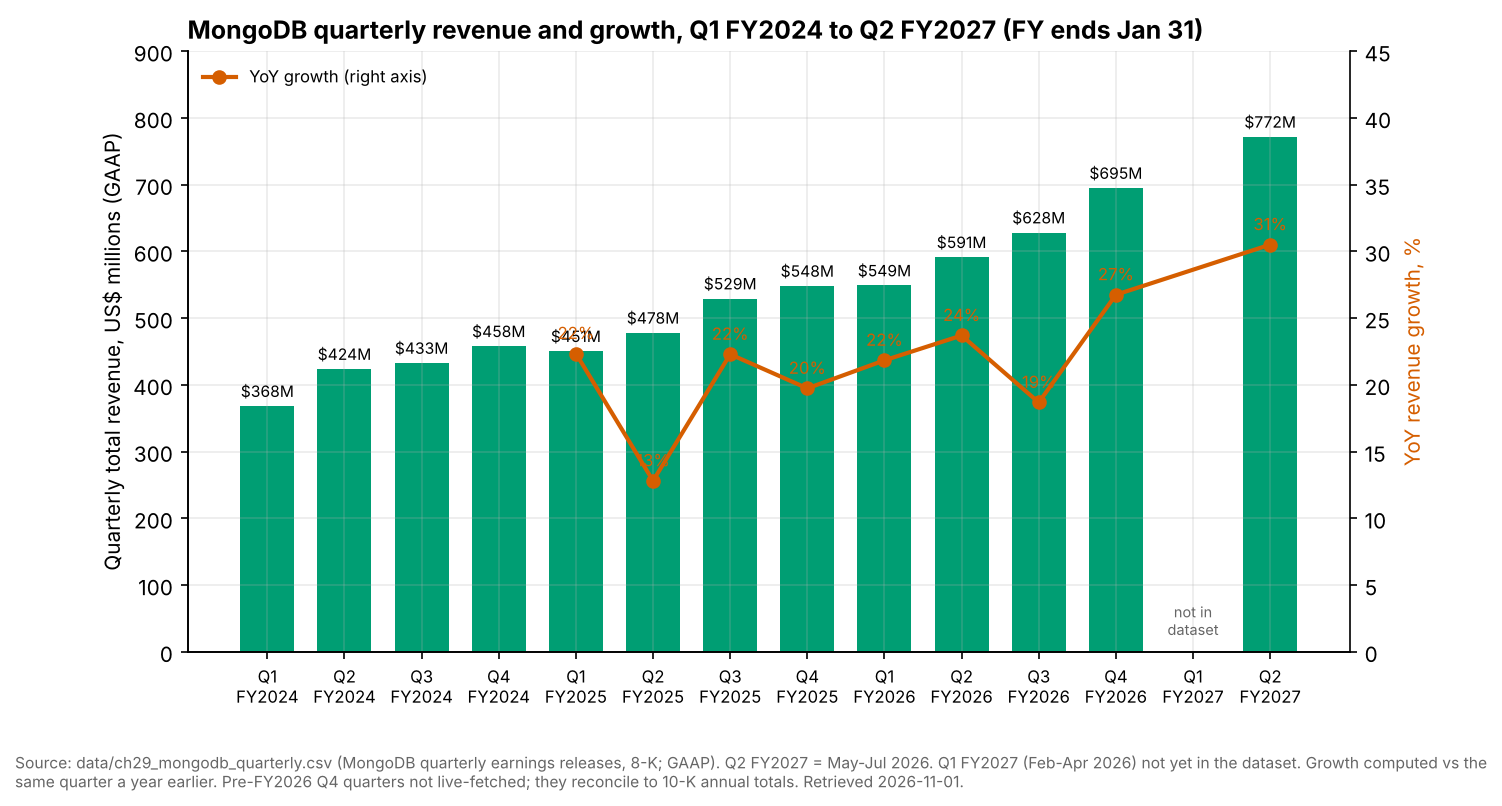
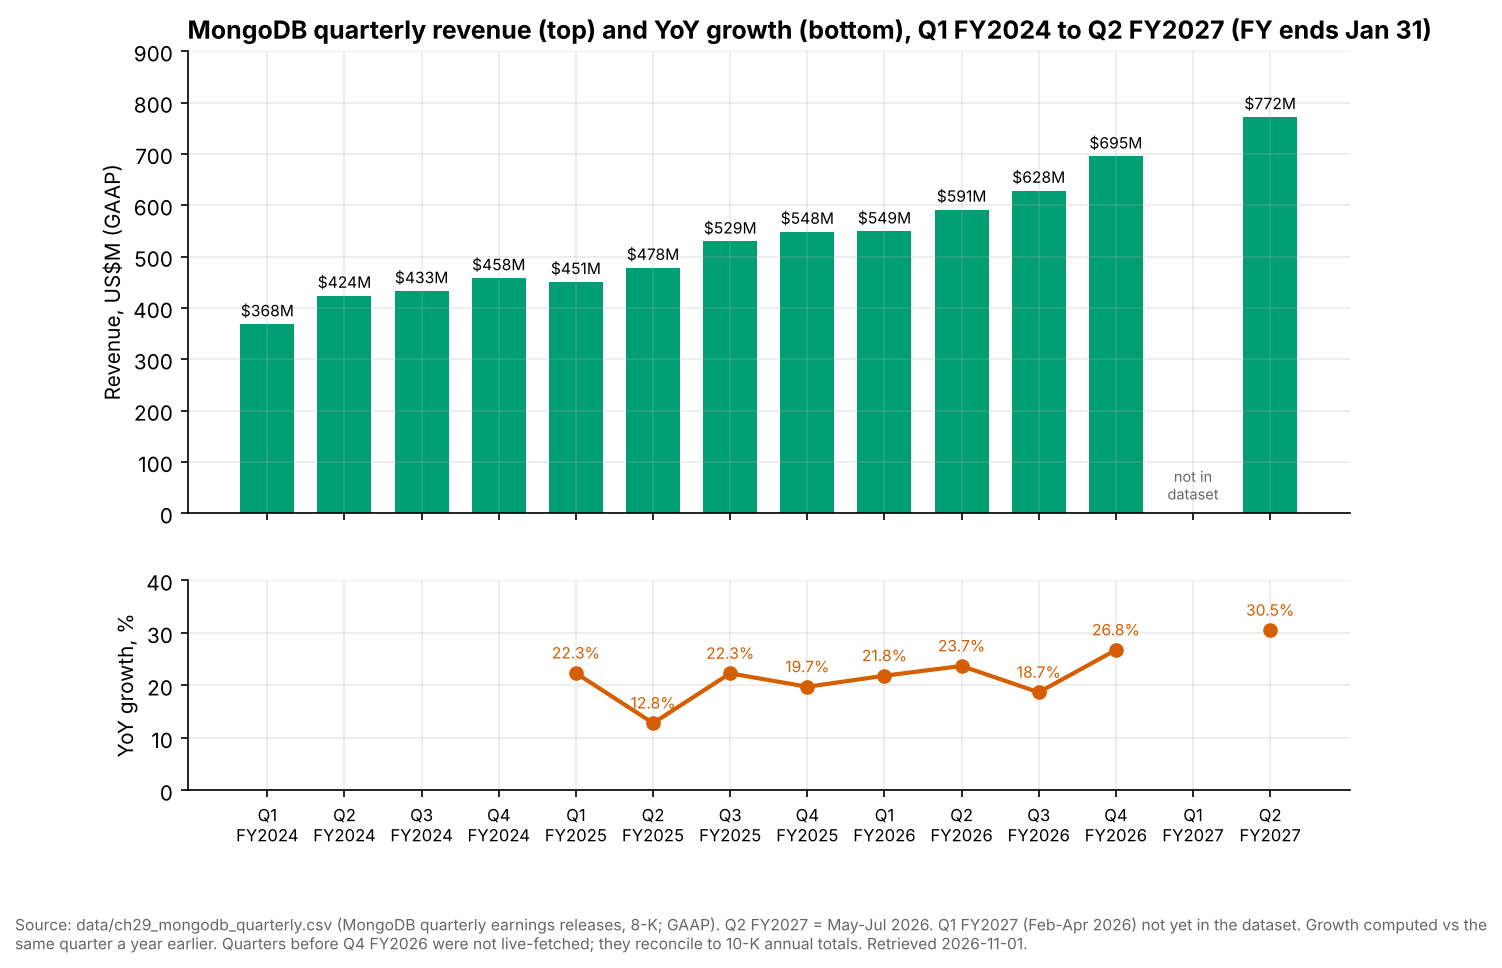
docs(ch23): real-time analytics and HTAP
Claude-Session: https://claude.ai/code/session_015j6Et44vVa5dK62bXN3KKX

diff --git a/scripts/charts/ch29_mongodb_atlas.py b/scripts/charts/ch29_mongodb_atlas.py
@@ -11,22 +11,18 @@ def make():
     d["v"] = num(d["value"])
     vals = dict(zip(d["fiscal_period"], d["v"]))
     xs = list(range(len(ORDER)))
-    fig, ax = plt.subplots(figsize=(10, 5.2))
+    fig, (ax, ax2) = plt.subplots(2, 1, figsize=(10, 6.4), sharex=True, gridspec_kw={"height_ratios": [2.2, 1]})
     heights = [vals.get(p, 0) for p in ORDER]
-    colors = [PALETTE["green"] if p in vals else PALETTE["grey"] for p in ORDER]
-    ax.bar(xs, heights, color=colors, width=0.7)
+    ax.bar(xs, heights, color=PALETTE["green"], width=0.7)
     for x, p in zip(xs, ORDER):
         if p in vals:
             ax.text(x, vals[p] + 8, f"${vals[p]:.0f}M", ha="center", va="bottom", fontsize=7.5)
         else:
             ax.text(x, 20, "not in\ndataset", ha="center", va="bottom", fontsize=7, color=PALETTE["grey"])
-    ax.set_xticks(xs)
-    ax.set_xticklabels([p.replace(" ", "\n") for p in ORDER], fontsize=8)
-    ax.set_ylabel("Quarterly total revenue, US$ millions (GAAP)")
+    ax.set_ylabel("Revenue, US$M (GAAP)")
     ax.set_ylim(0, 900)
 
-    # YoY growth: same quarter, prior fiscal year
-    ax2 = ax.twinx()
+    # YoY growth: same quarter, prior fiscal year; break the line where a quarter is missing
     gx, gy = [], []
     for x, p in zip(xs, ORDER):
         q, fy = p.split(" ")
@@ -34,18 +30,21 @@ def make():
         if p in vals and prior in vals:
             gx.append(x)
             gy.append((vals[p] / vals[prior] - 1) * 100)
-    ax2.plot(gx, gy, color=PALETTE["vermillion"], marker="o", linewidth=2, label="YoY growth (right axis)")
+        else:
+            gx.append(x)
+            gy.append(float("nan"))
+    ax2.plot(gx, gy, color=PALETTE["vermillion"], marker="o", linewidth=2)
     for x, y in zip(gx, gy):
-        ax2.annotate(f"{y:.0f}%", (x, y), xytext=(0, 7), textcoords="offset points", ha="center", fontsize=8,
-                     color=PALETTE["vermillion"])
-    ax2.set_ylim(0, 45)
-    ax2.set_ylabel("YoY revenue growth, %", color=PALETTE["vermillion"])
-    ax2.spines["right"].set_visible(True)
-    ax2.grid(False)
-    ax2.legend(loc="upper left", frameon=False, fontsize=8)
-    ax.set_title("MongoDB quarterly revenue and growth, Q1 FY2024 to Q2 FY2027 (FY ends Jan 31)")
+        if y == y:
+            ax2.annotate(f"{y:.1f}%", (x, y), xytext=(0, 7), textcoords="offset points", ha="center", fontsize=7.5,
+                         color=PALETTE["vermillion"])
+    ax2.set_ylim(0, 40)
+    ax2.set_ylabel("YoY growth, %")
+    ax2.set_xticks(xs)
+    ax2.set_xticklabels([p.replace(" ", "\n") for p in ORDER], fontsize=8)
+    ax.set_title("MongoDB quarterly revenue (top) and YoY growth (bottom), Q1 FY2024 to Q2 FY2027 (FY ends Jan 31)")
     source_note(ax, "Source: data/ch29_mongodb_quarterly.csv (MongoDB quarterly earnings releases, 8-K; GAAP). "
                     "Q2 FY2027 = May-Jul 2026. Q1 FY2027 (Feb-Apr 2026) not yet in the dataset. Growth computed vs the "
-                    "same quarter a year earlier. Pre-FY2026 Q4 quarters not live-fetched; they reconcile to 10-K annual totals. "
+                    "same quarter a year earlier. Quarters before Q4 FY2026 were not live-fetched; they reconcile to 10-K annual totals. "
                     "Retrieved 2026-11-01.")
     return [save(fig, "ch29_mongodb_atlas")]

diff --git a/docs/03-ai-data-stack/ch20-training-data-supply-chain.md b/docs/03-ai-data-stack/ch20-training-data-supply-chain.md
@@ -1,12 +1,12 @@
 # 20. The Training-Data Supply Chain
-> **Depth:** L2 · **Reading time:** ~13 min · **Last verified:** 2026-11-01 · **Prerequisites:** [Ch 16 — The AI data lifecycle](ch16-ai-data-lifecycle.md)
+> **Depth:** L2 · **Reading time:** ~16 min · **Last verified:** 2026-11-01 · **Prerequisites:** [Ch 16 — The AI data lifecycle](ch16-ai-data-lifecycle.md)
 
 ## TL;DR
 
 - Frontier models are built from four input channels: crawled web data, licensed content, human-produced data (labels, preference rankings, expert demonstrations) and synthetic data generated by other models. Each channel has its own cost curve, legal risk and supplier structure. Together they form a supply chain, and curation (deduplication, quality filtering, PII removal, mixing) is the refinery in the middle.
 - Human data has moved up-market fast. Cheap crowd labeling (Appen's model) is shrinking. Expert networks that rent out PhDs, doctors and senior engineers by the hour are growing quickly. Mercor's priced valuation went to $10B (October 2025, company-confirmed),[^mercor-c] and Snorkel AI's to $3.5B (September 2026, company-stated).[^snorkel-e] Bootstrapped Surge AI reportedly passed $1B of 2024 revenue (press-reported).[^surge-reuters]
 - The buyer side is a handful of frontier labs, so vendor neutrality is the asset that matters most. Meta paid a press-reported ~$14.3B for 49% of Scale AI in June 2025 and hired its CEO.[^meta-scale] Within weeks, Google and OpenAI were reported to be winding down work with Scale, and Scale cut about 14% of staff.[^scale-customers][^scale-layoffs] A large investment from one customer drove the others away.
-- The legal backdrop moved in 2025–2026. Two US district courts held that training on lawfully acquired books can be fair use (Bartz v. Anthropic; Kadrey v. Meta, June 2025). Pirated acquisition was a separate matter, and it cost Anthropic a $1.5B class settlement, which received final approval in July 2026.[^bartz-final][^fairuse] Licensing now looks less like a legal shield and more like paid access to fresh, hard-to-crawl content.
+- The legal backdrop moved in 2025–2026. Two US district courts held, on the records before them, that training models on books can be fair use (Bartz v. Anthropic; Kadrey v. Meta, June 2025). In Bartz, building a library from pirated copies was a separate question, and it cost Anthropic a $1.5B class settlement, which received final approval in July 2026.[^bartz-final][^fairuse] Licensing now looks less like a legal shield and more like paid access to fresh, hard-to-crawl content.
 - Curation beats raw scale. FineWeb-Edu kept only the "educational" 1.3T tokens of a 15T-token web corpus, and models trained on it scored much better on knowledge and reasoning benchmarks.[^fineweb] The tooling (MinHash dedup, LLM-labeled quality classifiers, GPU pipelines such as NVIDIA NeMo Curator) is now commodity. What stays scarce is the judgment about what goes into the mixture.
 
 ## Why this matters (business + Everpure lens)
@@ -15,7 +15,7 @@ Compute gets the headlines, but data is the input that separates frontier labs f
 
 For a corporate-development reader, the chapter answers three questions. Where does value accrue in this chain? Today it goes to scarce expert supply and to curation know-how, not to commodity labeling. How durable are these businesses, given that a few buyers control most demand? And what does the chain mean for infrastructure vendors?
 
-The Everpure angle is the third question. Training corpora and curated datasets are large, long-lived and versioned. A lab keeps raw crawl snapshots, several deduplicated and filtered derivatives, and the exact mixture behind each model checkpoint, sometimes for years, for reproducibility and litigation. Under the Anthropic settlement, the company had to destroy the pirated files it held,[^bartz-final] so provable deletion and lineage are now legal requirements, not just good hygiene. Enterprise fine-tuning has the same problem at smaller scale: find the sensitive data, classify it, scrub it and keep a record. This is the work that Everpure's 2026 1touch acquisition (data discovery, classification and semantic context) was bought to do. See the Storage bridge below and [Ch 15](../02-pipelines-and-governance/ch15-governance-security-privacy.md).
+The Everpure angle is the third question. Training corpora and curated datasets are large, long-lived and versioned. A lab keeps raw crawl snapshots, several deduplicated and filtered derivatives, and the exact mixture behind each model checkpoint, sometimes for years, for reproducibility and litigation. Under the Anthropic settlement, the company had to destroy the pirated files it held,[^bartz-final] so provable deletion and lineage are now legal requirements, not just good hygiene. Enterprise fine-tuning has the same problem at smaller scale: find the sensitive data, classify it, scrub it and keep a record. This is the work that Everpure's 2026 1touch acquisition (data discovery, classification and semantic context) was bought to do.[^everpure-1touch] See the Storage bridge below and [Ch 15](../02-pipelines-and-governance/ch15-governance-security-privacy.md).
 
 ## How it works
 
@@ -79,7 +79,7 @@ What did Meta actually buy? A useful way to break it down:
 |---|---|---|
 | Talent | Wang and a small team to run its lab (an acquihire in effect) | Founder-CEO; replaced by an outside CEO (Francis deSouza, effective August 2026)[^scale-ceo] |
 | Supply insight | A large stakeholder's view of the leading data vendor | Neutrality: Google and OpenAI reported winding down work[^scale-customers] |
-| Structure | No control, so no merger filing of the usual kind (deal-structuring judgment) | About 14% of staff and 500 contractors cut in July 2025[^scale-layoffs] |
+| Structure | A non-control stake, widely read as limiting merger-review exposure (analyst judgment) | About 14% of staff and 500 contractors cut in July 2025[^scale-layoffs] |
 | Financial | An equity stake marked at ~$29B | Later talks reportedly at a lower ~$20B mark `[VERIFY: Scale AI 2026 round at ~$20B]` |
 
 *Figure 20.2 — An acquihire-plus-supply deal: Meta captured talent and influence without control, and Scale paid with its most valuable asset, neutrality.*
@@ -153,7 +153,7 @@ The output feeds a [data mixture](../glossary.md#data-mixture): the weights give
 | Channel | Unit cost | Scales with | Legal / ethical risk | Quality ceiling | Who controls supply |
 |---|---|---|---|---|---|
 | Crawled web | Lowest (crawl plus curation compute) | Compute and storage | Fair use favorable for training (2025 rulings), but robots.txt and output claims are still live | Limited by the web's average; needs heavy filtering | Nobody, though sites increasingly block crawlers |
-| Licensed content | Fixed fees, ~$10M–$100M a year for large deals (press-reported) | Number of rights holders signed | Low once signed; license scope matters | High for fresh, structured content | Rights holders with access control (Reddit, news, publishers) |
+| Licensed content | Fixed fees; ~$50M–$60M a year for the largest reported deals (press-reported) | Number of rights holders signed | Low once signed; license scope matters | High for fresh, structured content | Rights holders with access control (Reddit, news, publishers) |
 | Human / expert data | Highest per token; hourly expert rates | Recruiting | Contractor classification, data security (Mercor breach) | Highest for frontier reasoning | Few vendors; workforce is the moat |
 | Synthetic / distilled | GPU time | Compute | Terms-of-service limits on training with rivals' outputs; collapse risk | Bounded by the teacher plus the verifier | Whoever has the best teacher model and graders |
 
@@ -312,4 +312,5 @@ The steelman for buying less human data is that synthetic generation plus automa
 [^lee-dedup]: K. Lee et al., "Deduplicating Training Data Makes Language Models Better," arXiv:2107.06499, https://arxiv.org/abs/2107.06499, published 2021-07; retrieved 2026-11-01 (from prior knowledge; not re-fetched because the search budget was exhausted).
 [^semdedup]: A. Abbas et al., "SemDeDup: Data-efficient learning at web-scale through semantic deduplication," arXiv:2303.09540, https://arxiv.org/abs/2303.09540, published 2023-03; retrieved 2026-11-01 (not re-fetched). `[VERIFY: ~50% LAION removal figure]`
 [^datacomp]: S. Y. Gadre et al., "DataComp: In search of the next generation of multimodal datasets," arXiv:2304.14108, https://arxiv.org/abs/2304.14108, published 2023-04; retrieved 2026-11-01 (not re-fetched).
+[^everpure-1touch]: World Wide Technology (reposting Pure Storage release), "Pure Storage rebrands to Everpure and announces intent to acquire 1touch," https://www.wwt.com/news/pure-storage-rebrands-to-everpure-and-announces-intent-to-acquire-1touch, published 2026-02-23; Cleary Gottlieb, "Everpure Completes Acquisition of 1touch," https://www.clearygottlieb.com/news-and-insights/news-listing/everpure-completes-acquisition-of-1touch, published 2026-05-11; retrieved 2026-11-01.
 [^instructgpt]: L. Ouyang et al., "Training language models to follow instructions with human feedback," arXiv:2203.02155, https://arxiv.org/abs/2203.02155, published 2022-03; retrieved 2026-11-01 (not re-fetched).

diff --git a/PROGRESS.md b/PROGRESS.md
@@ -21,7 +21,7 @@
 
 Words = prose words (`scripts/wordcount.py`). Visuals = Mermaid + images + comparison tables (`scripts/qa_report.py`).
 
-**Totals:** 25/52 chapters drafted · 89,970 prose words · 223 visuals · 143 [VERIFY] markers.
+**Totals:** 25/52 chapters drafted · 89,980 prose words · 223 visuals · 143 [VERIFY] markers.
 
 | Ch | File | Status | Words | Budget | Visuals | VERIFY | Reviewed |
 |---|---|---|---|---|---|---|---|
@@ -46,7 +46,7 @@ Words = prose words (`scripts/wordcount.py`). Visuals = Mermaid + images + compa
 | 17 | ch17-unstructured-data-processing.md | QA pass | 3,144 | 2100 | 10 | 11 | no |
 | 18 | ch18-embeddings-and-vector-search.md | QA pass | 4,359 | 2600 | 11 | 5 | no |
 | 19 | ch19-retrieval-architectures.md | QA pass | 3,781 | 2200 | 11 | 7 | no |
-| 20 | ch20-training-data-supply-chain.md | QA pass | 3,600 | 2200 | 8 | 20 | no |
+| 20 | ch20-training-data-supply-chain.md | QA pass | 3,610 | 2200 | 8 | 20 | no |
 | 21 | ch21-ml-platforms-feature-stores-llmops.md | QA pass | 3,436 | 2100 | 9 | 0 | no |
 | 22 | ch22-agents-and-data.md | QA pass | 4,255 | 2400 | 10 | 4 | no |
 | 23 | ch23-real-time-analytics-htap.md | QA pass | 3,360 | 2000 | 9 | 13 | no |
